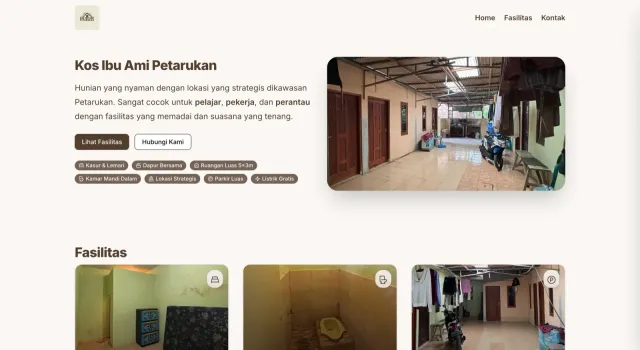
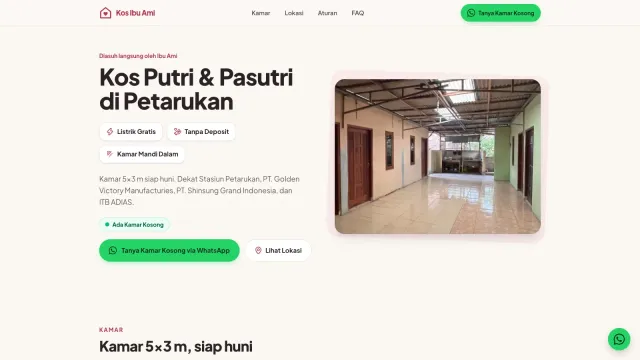
chore(work): refresh Kos Ibu Ami for its Astro rebuild
The site was rebuilt from Next.js as a static Astro site with a new
design. New screenshot (plus srcset copies and link-preview image),
stack now Astro and Tailwind CSS, red accent from the new logo, and the
story and highlights describe what the live site does now: the facts in
the first screen, one availability switch for every WhatsApp button, the
visit form, the on-demand map and its structured data.

diff --git a/src/data/site.ts b/src/data/site.ts
@@ -570,15 +570,16 @@ export const projects: Project[] = [
     ],
   }),
   project({
-    slug: 'kos-ibu-ami', name: 'Kos Ibu Ami Petarukan', accent: '#8A6A4F',
-    tags: ['Next.js', 'Tailwind CSS', 'shadcn/ui'], industry: 'Property', platform: 'Web',
-    summary: 'A simple website for a boarding house in Petarukan, with facilities, location and contact in one place.',
+    slug: 'kos-ibu-ami', name: 'Kos Ibu Ami Petarukan', accent: '#C2344F',
+    tags: ['Astro', 'Tailwind CSS'], industry: 'Property', platform: 'Web',
+    summary: 'A website for a women’s and couples’ boarding house in Petarukan: rooms, rules, location and a WhatsApp chat away.',
     image: '/images/work/kos-ibu-ami.webp', link: 'https://kosibuami.my.id/',
-    story: 'A small website for a boarding house in Petarukan. Anyone looking for a room can see the facilities, real photos and the location in one place, then contact the owner directly. Built with Next.js, Tailwind CSS and shadcn/ui.',
+    story: 'A one-page website for a boarding house in Petarukan, for women and married couples. Anyone looking for a room sees what matters first, real photos and how close it is to the station and the factories nearby, then asks about a free room on WhatsApp. I rebuilt it from Next.js as a static Astro site.',
     highlights: [
-      { title: 'The facts up front', body: 'Room size, private bathroom, shared kitchen, parking and free electricity: what tenants ask first.' },
-      { title: 'Real photos', body: 'Pictures of the actual rooms and building, not stock images.' },
-      { title: 'One tap to ask', body: 'A contact button that goes straight to the owner.' },
+      { title: 'The facts up front', body: 'A 5×3 m room, private bathroom, free electricity and no deposit, all in the first screen.' },
+      { title: 'One switch for availability', body: 'A single value updates the “room available” badge, every WhatsApp button and the message it sends.' },
+      { title: 'Ask or visit', body: 'Buttons that open WhatsApp with the message already written, including a form to book a visit.' },
+      { title: 'Easy to find', body: 'A map that loads only when asked, plus LodgingBusiness and FAQ structured data for search.' },
     ],
   }),
   project({
